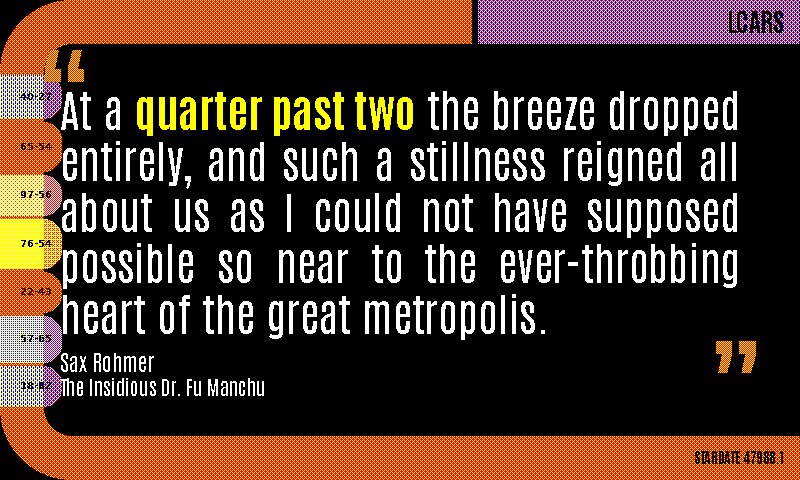
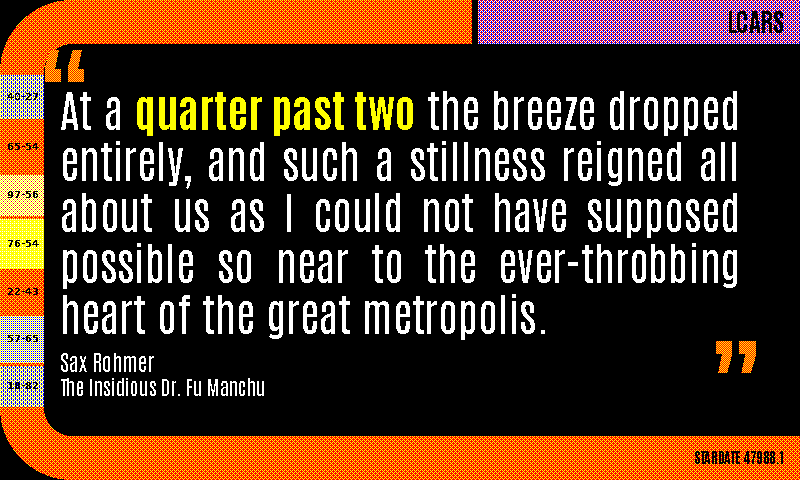
LCARS theme: confine rail blocks to the rail column with flat edges
Per user feedback ("color blocks should be confined to the left
column width, no rounded right sides"):

* Rail blocks are now plain ``draw.rectangle`` calls confined to
  x ∈ [0, rail_width − 1] = [0, 43]. No more pill-shaped protrusion
  past the rail boundary, no more ``corners=(False, True, True,
  False)`` rounded-rectangle calls. The flush right edge reads as
  sidebar segments rather than detached buttons.
* Drop ``cap_radius`` (no longer needed for the blocks).
* Label positioning simplified — labels right-align inside the rail
  with a small 4 px pad from the rail boundary, instead of the prior
  ``cap_radius // 2`` offset from a curved cap.
* Docstring + stale ``cap_radius`` comments updated.

Body-text clearance improves: blocks ending at x = 43 leave ≥ 16 px
of margin to the densest body layout's left edge (x = 60), vs the
prior 1-2 px overlap at x ≈ 61.

Regenerated assets/previews/lcars.png. All 231 render_quote tests
still pass.

Changed region(s): [[0.0, 0.1562, 0.0938, 0.8438]]

diff --git a/render_quote.py b/render_quote.py
@@ -3852,12 +3852,11 @@ def draw_lcars_border(image: Image.Image, colors: dict) -> None:
 
     Body-text overlap: the layout pipeline's largest ``max_width`` is
     680 (the ``dense`` layout), centred in the 800-px canvas → body
-    text starts at x = 60. The rail blocks extend to x ≈ 60 (rail
-    width 40 + 20 px right-cap radius), sitting flush with the dense
-    body's left edge; hero/standard layouts leave 10–20 px of clear
-    margin so the rail and body never visibly intersect. Same
-    "decoration in margins" pattern ``dispatch`` and ``nightvision``
-    establish.
+    text starts at x = 60. The rail blocks are confined to the rail
+    column (x = 0..rail_width-1 = 0..43), leaving ≥ 16 px of clear
+    margin to the densest body — the rail and body never visibly
+    intersect. Same "decoration in margins" pattern ``dispatch``
+    and ``nightvision`` establish.
     """
     draw = ImageDraw.Draw(image)
     width, height = image.size
@@ -3882,8 +3881,11 @@ def draw_lcars_border(image: Image.Image, colors: dict) -> None:
     rail_width = T
     R_out = 72                      # outer elbow radius — chunky LCARS curve sweeping the canvas corner
     R_in = R_out - T                # = 28, derived
-    cap_radius = 18                 # right-cap radius for the rail blocks (PIL's rounded_rectangle with corners= kwarg needs height ≥ 2·radius + 3 px to draw the inner straight segment without erroring; sized so even the 0.13-proportion block clears the floor at ~41 px)
-    block_right = rail_width + cap_radius - 1
+    # Rail blocks are plain rectangles confined to the rail column —
+    # no protrusion past ``rail_width``, no rounded corners. The colour
+    # blocks read as flush sidebar segments rather than as detached
+    # "pill buttons" floating off the rail.
+    block_right = rail_width - 1
 
     top_bar_y1 = 0
     top_bar_y2 = bar_thickness - 1
@@ -4006,11 +4008,11 @@ def draw_lcars_border(image: Image.Image, colors: dict) -> None:
     # in the show varied block heights to suggest functional grouping.
     # Each entry in ``block_specs`` is (kind, label, proportion); the
     # proportions sum to 1.0.
-    # Block labels are short alphanumeric codes (3-4 chars) — the show's
+    # Block labels are short alphanumeric codes (3-5 chars) — the show's
     # signature meaningless instrument numerics. Kept short because the
-    # block's visible label area is only ~50 px wide (rail_width 40 +
-    # ~half the cap_radius before the curvature begins); a longer code
-    # would clip its leading characters under the cap.
+    # block's visible label area is only ~rail_width (= 44 px) wide;
+    # a longer code would clip its leading characters at the left rail
+    # edge.
     block_specs = [
         ("lavender",  "40-27", 0.14),
         ("tangerine", "65-54", 0.16),
@@ -4021,9 +4023,6 @@ def draw_lcars_border(image: Image.Image, colors: dict) -> None:
         ("lavender",  "18-82", 0.13),
     ]
     assert abs(sum(p for _, _, p in block_specs) - 1.0) < 1e-6
-    # PIL's ``rounded_rectangle`` needs height ≥ 2 × radius; with
-    # rail_height ≈ 340 and cap_radius = 20 the floor at 0.13 → ~44 px
-    # comfortably clears the 40-px minimum.
     available_v = rail_height - block_gap * (len(block_specs) - 1)
     pixels = image.load()
     blocks: list[tuple[int, int, int, int, str]] = []
@@ -4038,10 +4037,8 @@ def draw_lcars_border(image: Image.Image, colors: dict) -> None:
             paint_sentinel = sentinel_red
         else:
             paint_sentinel = lavender_sentinel
-        draw.rounded_rectangle(
+        draw.rectangle(
             (left, top, right, bot),
-            radius=cap_radius,
-            corners=(False, True, True, False),
             fill=paint_sentinel,
         )
         if kind == "tangerine":
@@ -4081,15 +4078,15 @@ def draw_lcars_border(image: Image.Image, colors: dict) -> None:
     # Layer 4: black labels centred inside each block
     # ===========================================================
     block_label_font = load_font(META_FONT_BOLD_CANDIDATES, 10)
+    label_pad_right = 4   # small inset from the right edge so the label
+                          # doesn't kiss the rail boundary
     for left, top, right, bot, label in blocks:
         baseline_bbox = draw.textbbox((0, 0), label, font=block_label_font)
         label_w = baseline_bbox[2] - baseline_bbox[0]
         label_h = baseline_bbox[3] - baseline_bbox[1]
-        # Right-align inside the straight section so the label hugs the
-        # right cap without crossing into the curved cap region where
-        # stippled-block density is non-uniform. Block widths now
-        # accommodate ~10-char labels at 10pt.
-        label_x = right - cap_radius // 2 - label_w - baseline_bbox[0]
+        # Right-align inside the block (the right edge is now flush
+        # with the rail boundary, so just pad in by ``label_pad_right``).
+        label_x = right - label_pad_right - label_w - baseline_bbox[0]
         label_y = top + (bot - top - label_h) // 2 - baseline_bbox[1]
         draw.text(
             (label_x, label_y),
